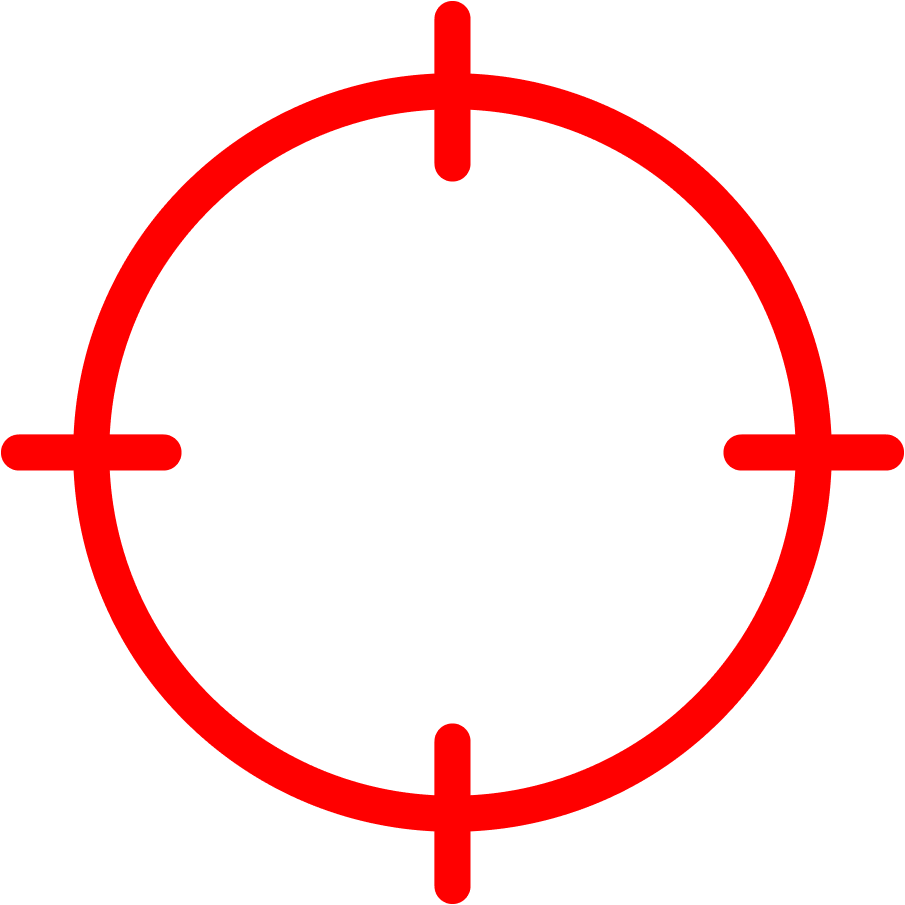
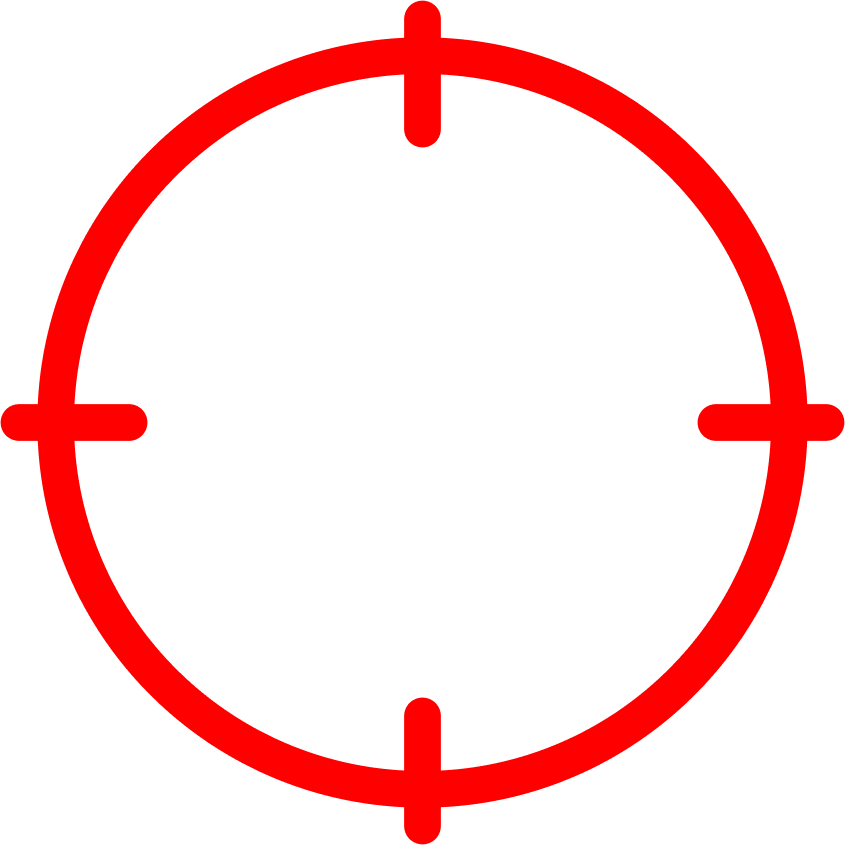
crosshair update cuz we dont care ab cams opinion

diff --git a/DM-APP-2024/MissionDM.jsx b/DM-APP-2024/MissionDM.jsx
@@ -903,10 +903,10 @@ const styles = StyleSheet.create({
   },
   crosshairOverlay: {
     position: "absolute",
-    top: -12,
-    left: -12,
-    width: 125,
-    height: 125,
+    top: -7,
+    left: -7,
+    width: 115,
+    height: 115,
   },
   zoomedImage: {
     width: 300,
